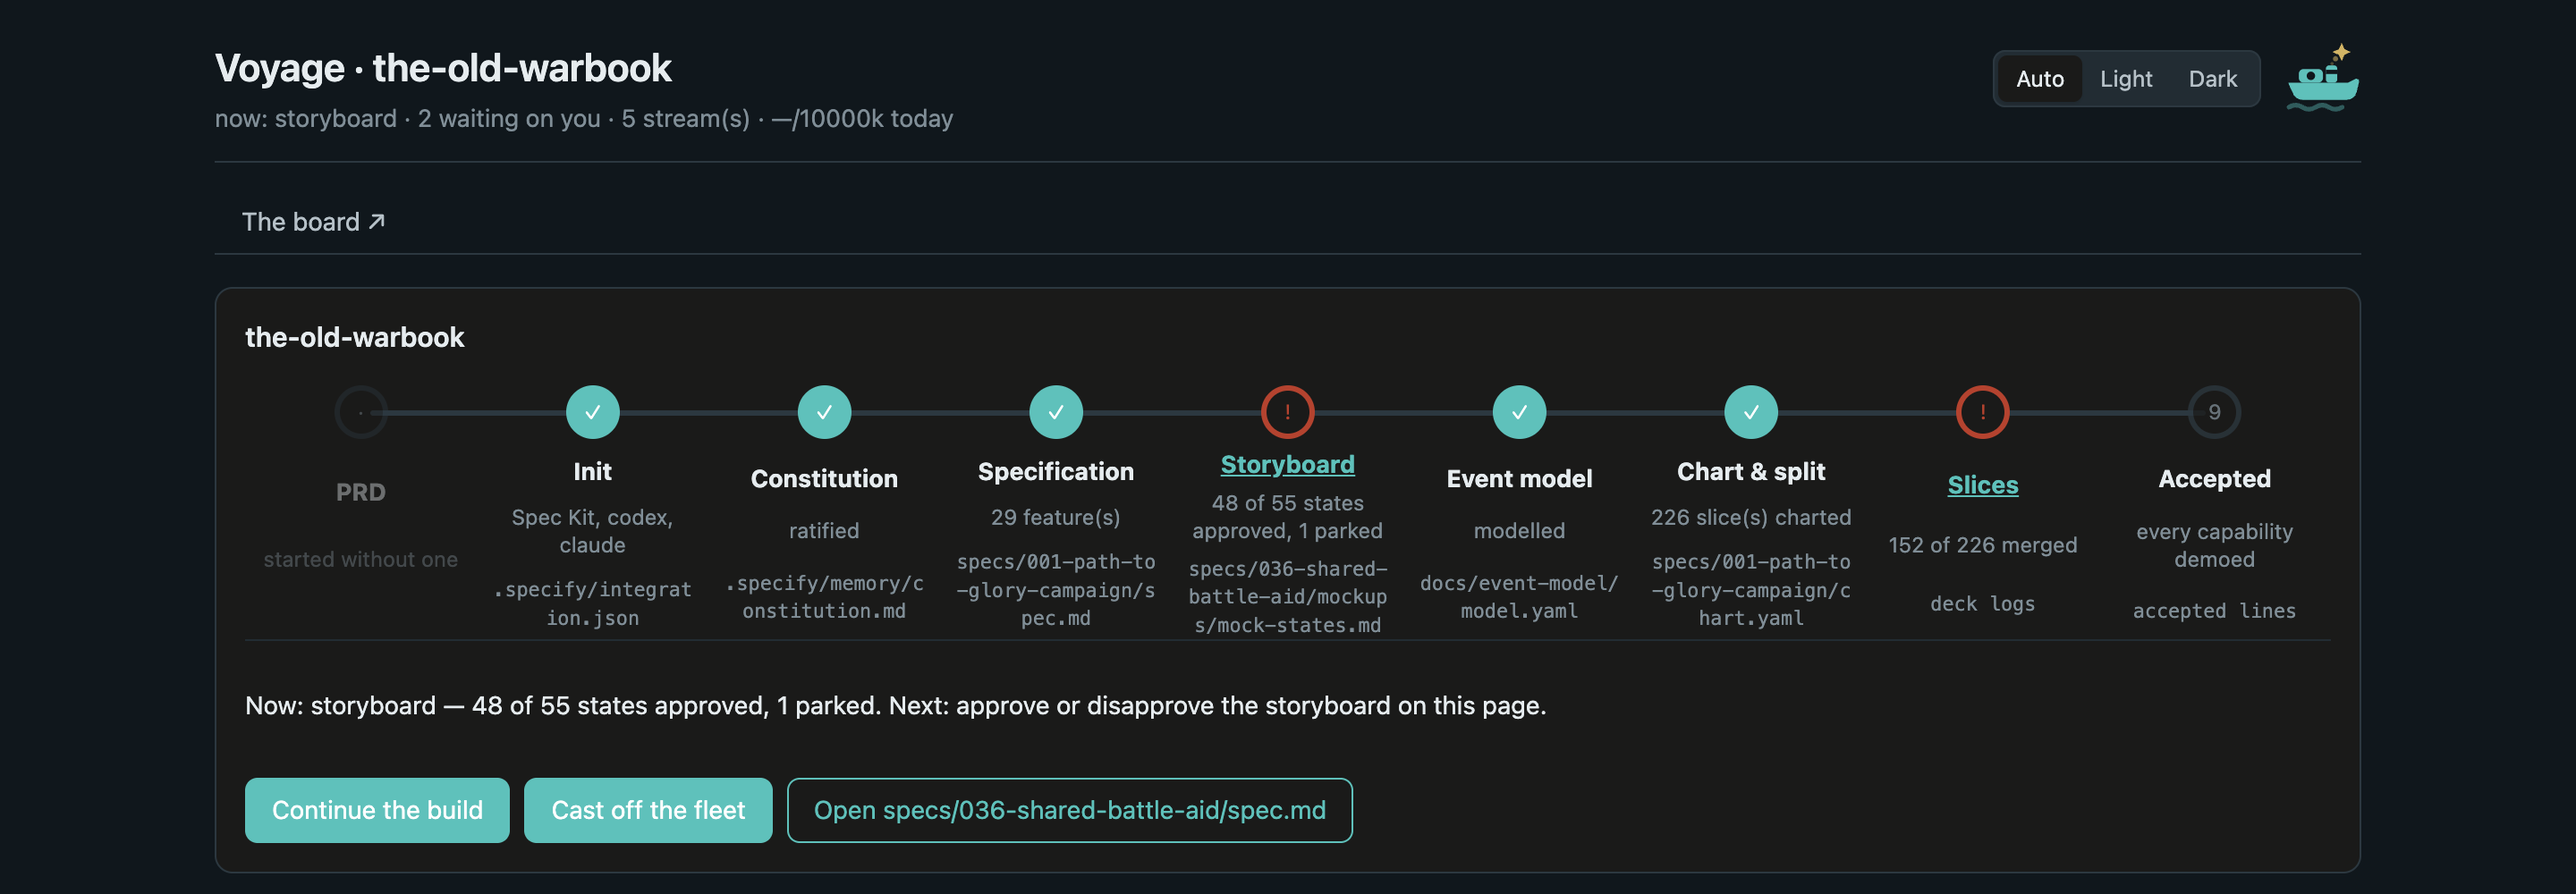
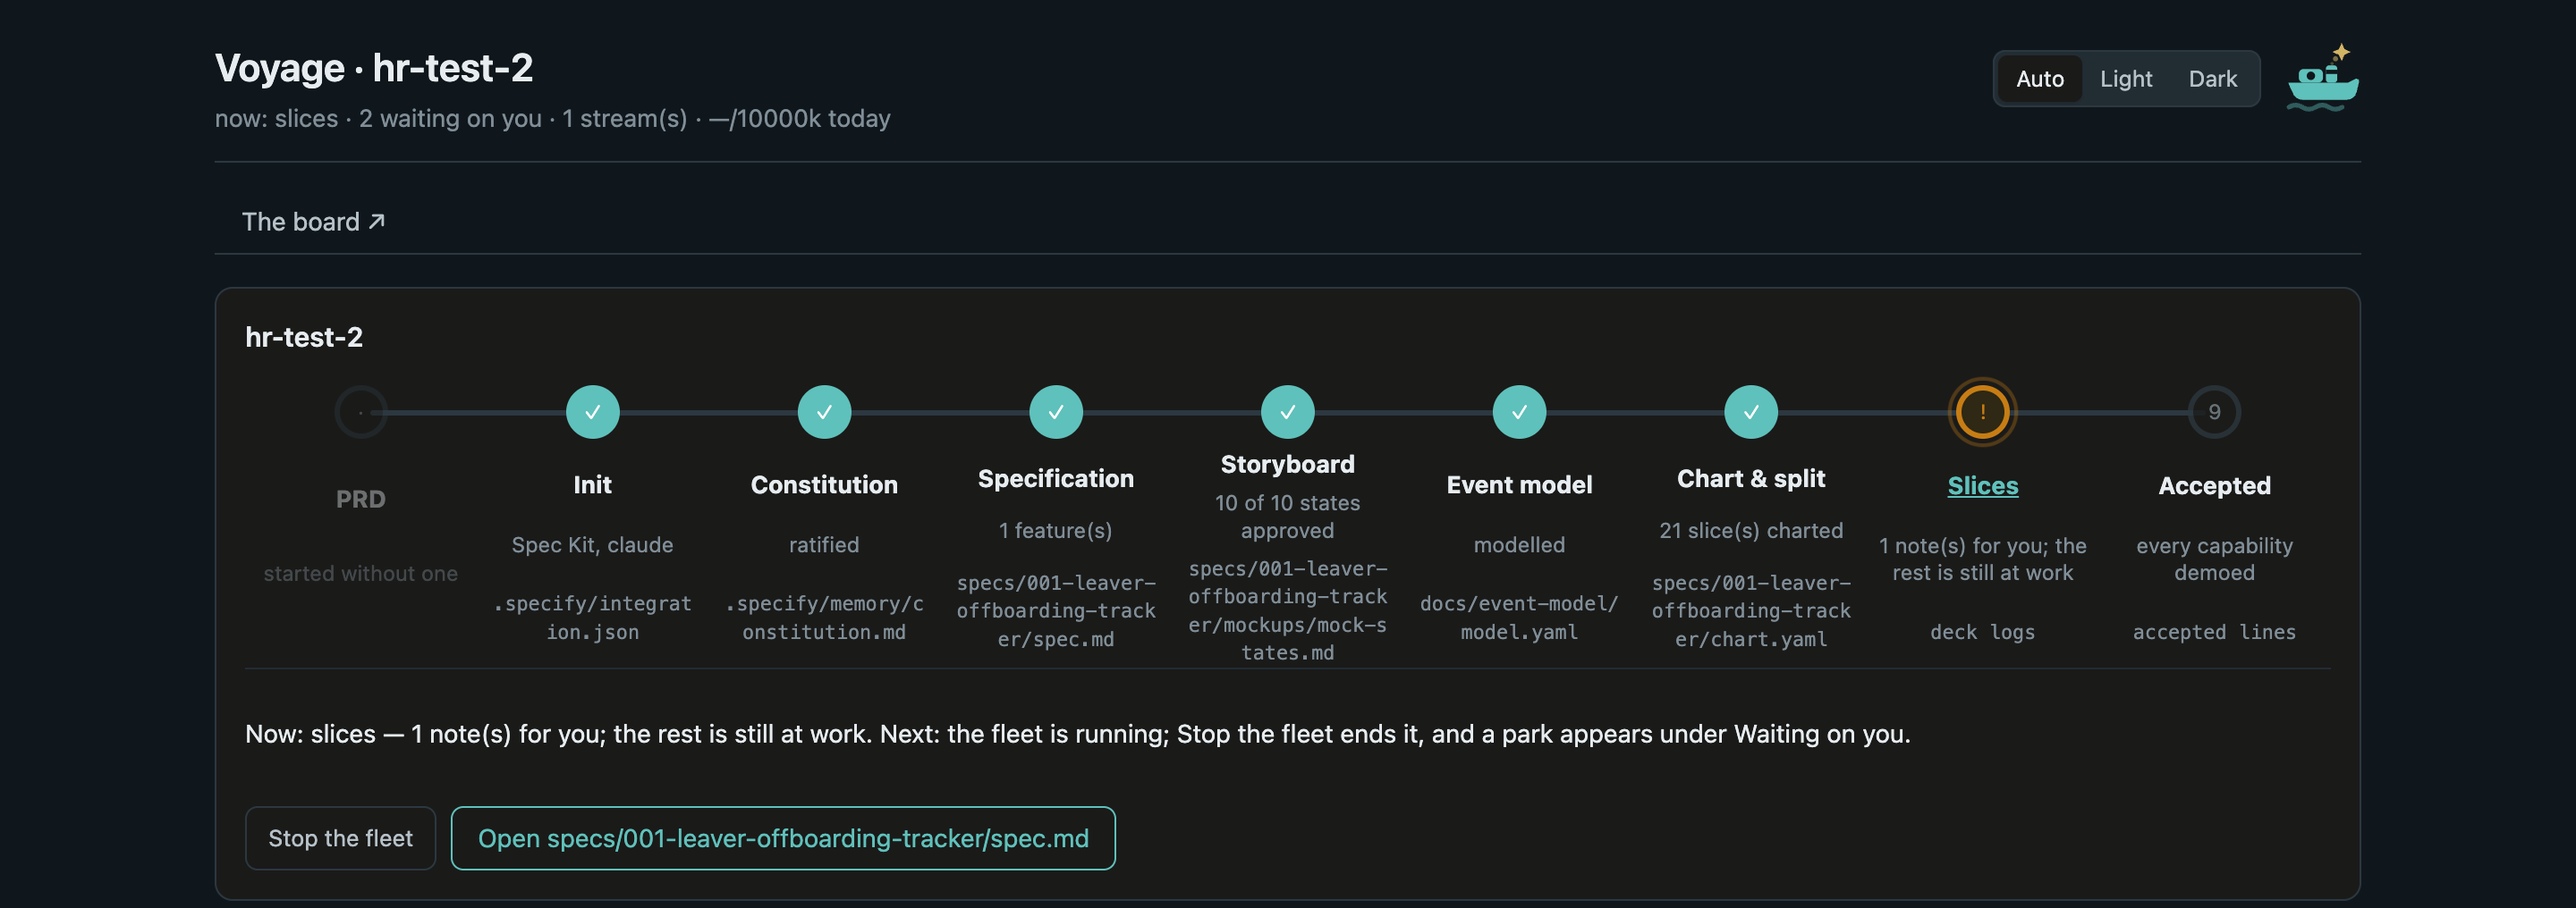
The README's picture is hr-test-2's Voyage tab

diff --git a/README.md b/README.md
@@ -34,9 +34,9 @@ verify: all gates passed
 These steps take about ten minutes. [Your first feature](docs/guide/first-feature.md) takes about five more.
 In those five minutes, one feature is specified, modelled, charted, split, built and demoed to you.
 
-The picture above is the board's **Voyage** tab for one project, part way through. 152 of its 226 slices
-have merged, and the storyboard for one feature waits for a person's verdict. Each tick on the strip comes
-from a file in the repository. Nobody typed a status. Run `slipwai` with no arguments to open the board.
+The picture above is the board's **Voyage** tab for one project, part way through. Its feature is
+specified, storyboarded, modelled and charted into 21 slices, and the fleet is building them. Each tick on
+the strip comes from a file in the repository. Nobody typed a status. Run `slipwai` with no arguments to open the board.
 Only this machine can open it.
 
 ## The development loop
